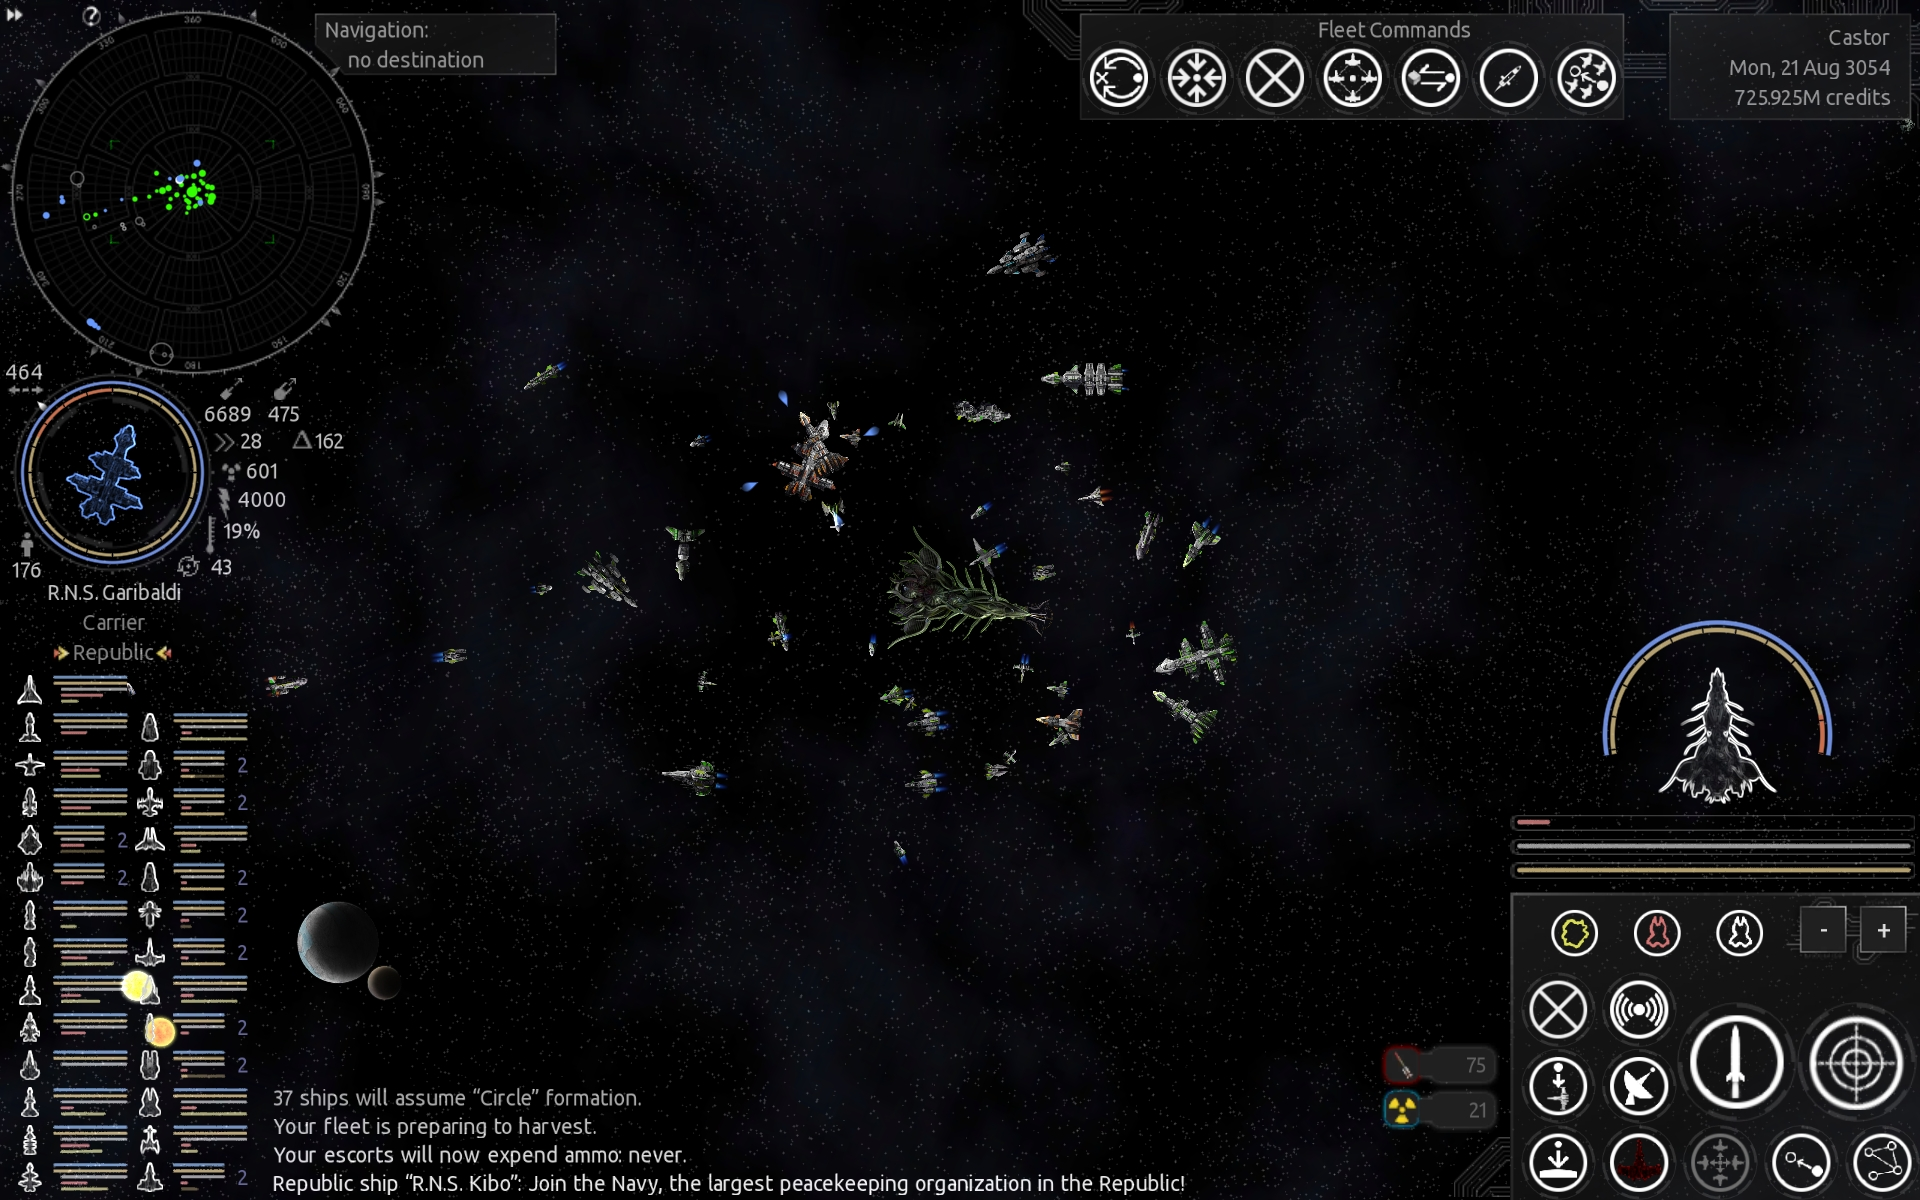
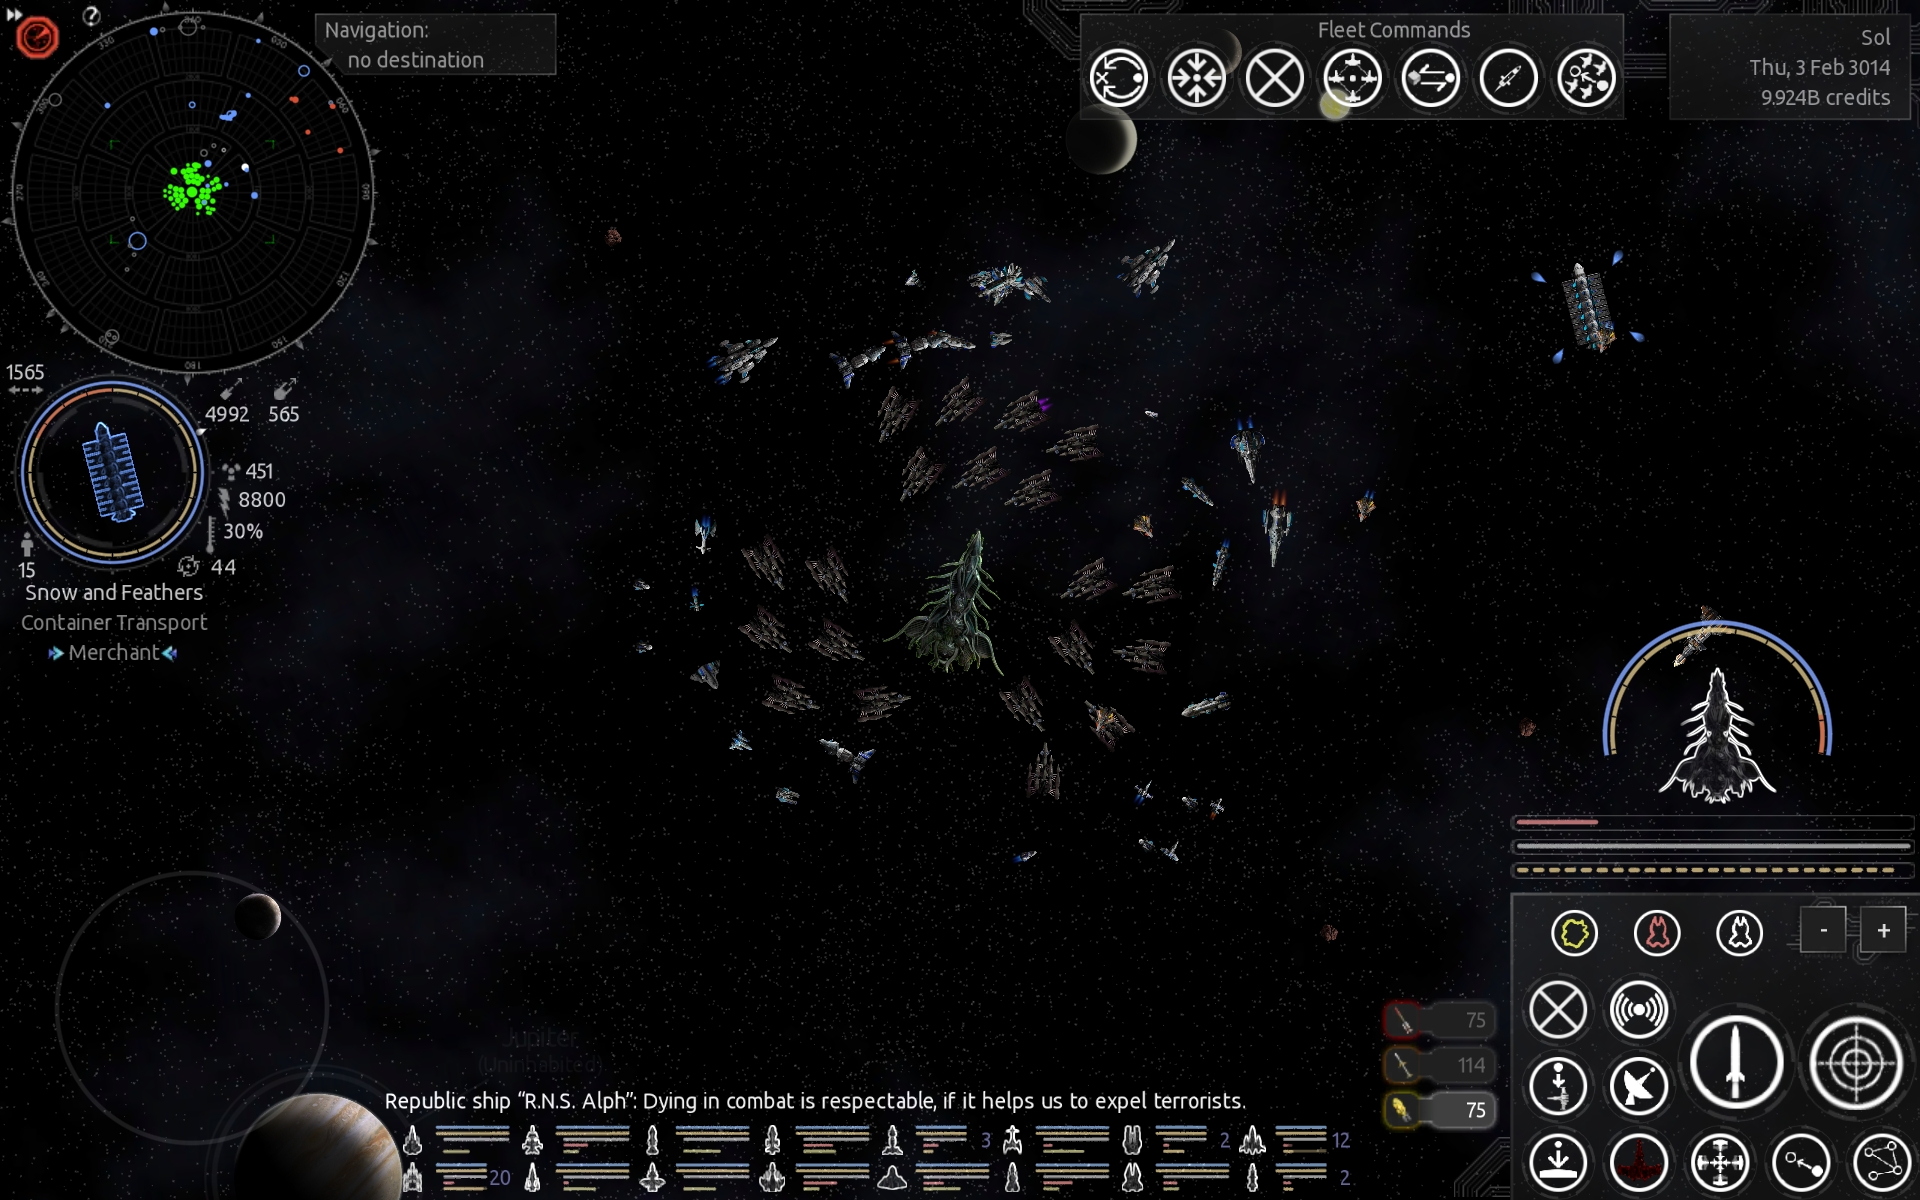
update additional.command.buttons.radial

diff --git a/myplugins/additional.command.buttons.radial/README.md b/myplugins/additional.command.buttons.radial/README.md
@@ -19,6 +19,10 @@ This plugin<br>
 <br>
 Changelog:<br>
 <br>
+2025-02-28<br>
+moved the fleet box below the text box<br>
+adjusted onscreen joystick size<br>
+<br>
 2025-02-23<br>
 added new fleet jump button<br>
 moved targeting buttons to the lower right<br>
